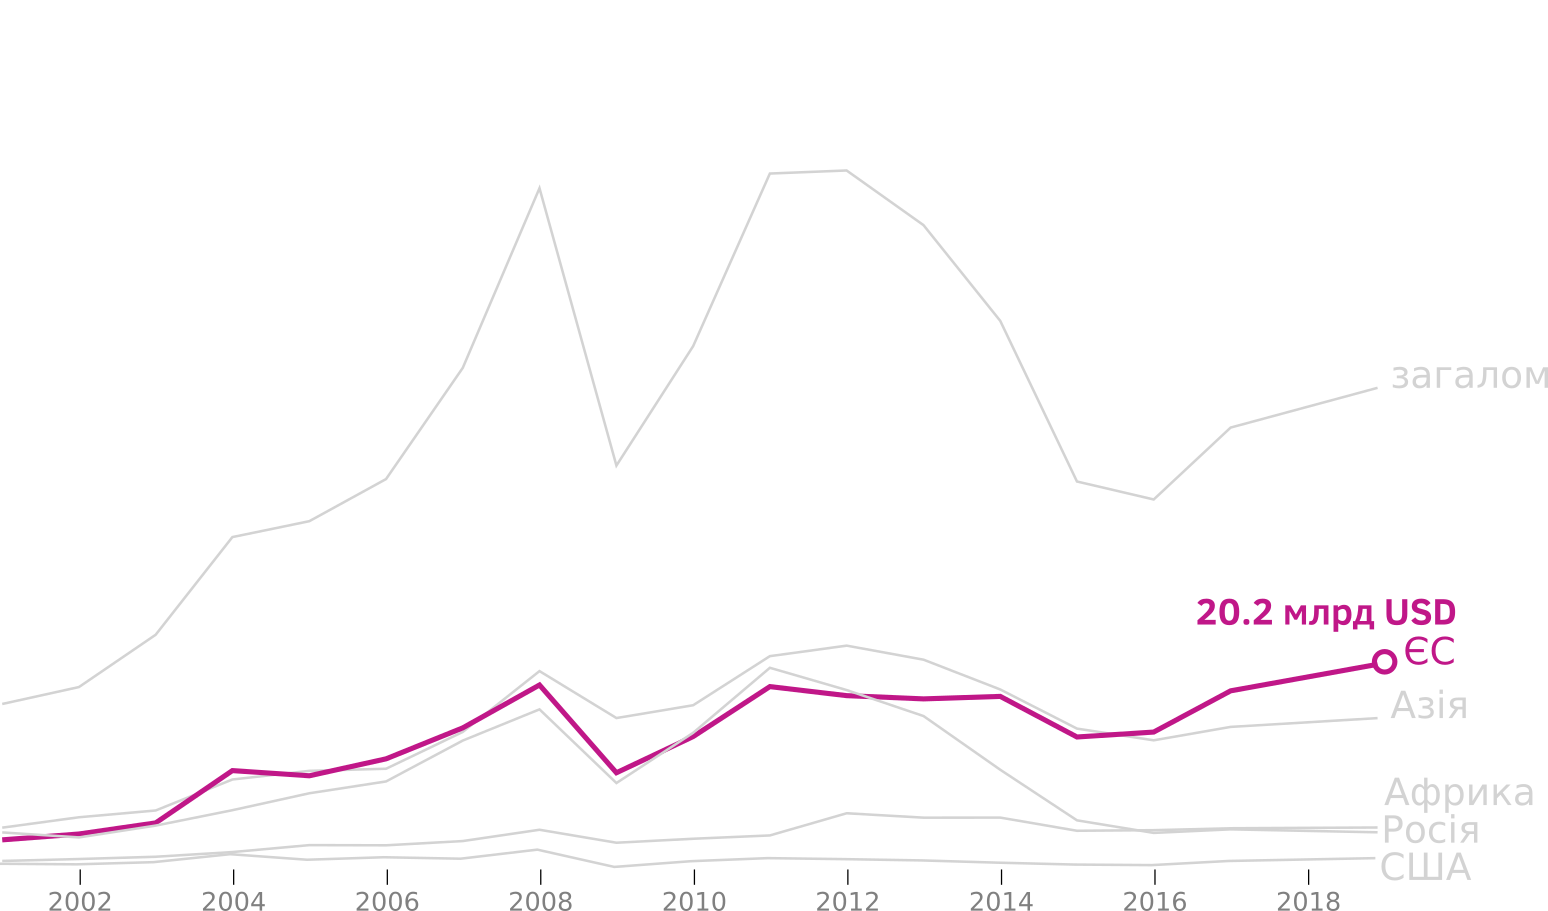
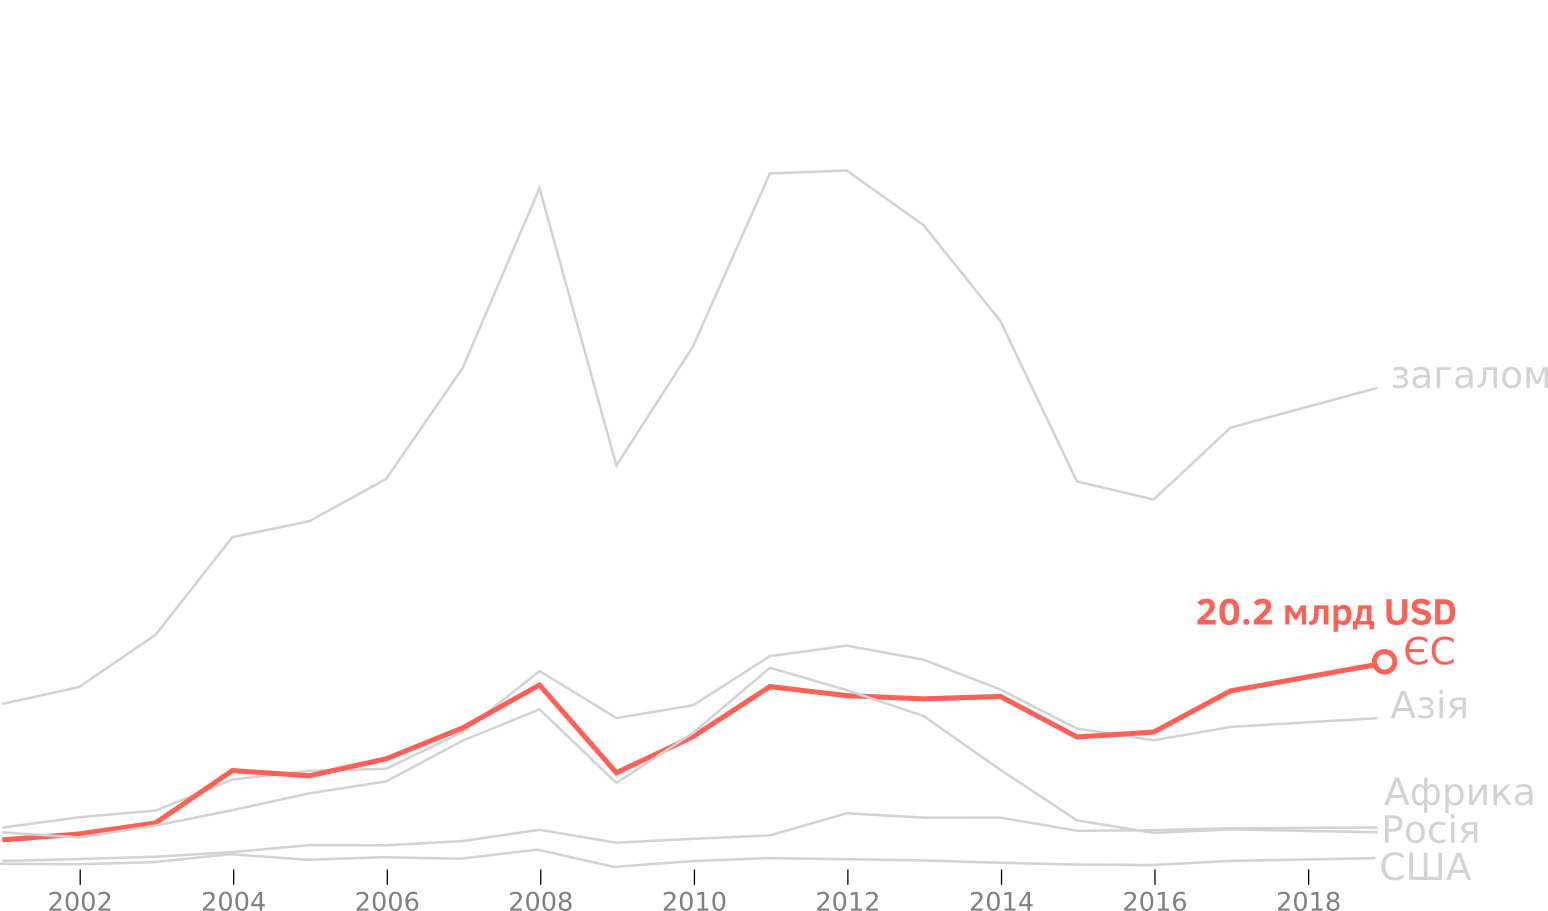
додала заставочну картинку, змінила назву і колір експорту

diff --git a/index.html b/index.html
@@ -3,13 +3,13 @@
 <meta http-equiv="X-UA-Compatible" content="IE=edge">
 <meta name="viewport" content="width=device-width, initial-scale=1.0">
 
-<title>Країна зерна і сталі</title>
+<title>Країна сталі і зерна</title>
 
 <!-- OpenGraph Meta Tags -->
 <meta property="og:site_name" content="ТЕКСТИ.ORG.UA"/>
 <meta property="og:type" content="website"/>
 <meta property="og:title"
-        content="Країна зерна і сталі"/>
+        content="Країна сталі і зерна"/>
 <meta property="og:image" content="http://texty.org.ua/d/2020/trade-map/img/cover.png"/>
 <meta property="og:description"
         content="«Тексти» проаналізували дані ITC по українському експорту та імпорту з 2001 по 2018 роки"/>
@@ -21,7 +21,7 @@
 <meta property="twitter:account_id" content="49572937"/>
 <meta name="twitter:card" content="summary_large_image"/>
 <meta name="twitter:url" content="http://texty.org.ua/d/2020/trade-map/"/>
-<meta name="twitter:title"  content="Країна зерна і сталі"/>
+<meta name="twitter:title"  content="Країна сталі і зерна"/>
 <meta name="twitter:description"  content="«Тексти» проаналізували дані ITC по українському експорту та імпорту з 2001 по 2018 роки"/>
 <meta name="twitter:image:src" content="http://texty.org.ua/d/2020/trade-map/img/cover.png"/>
 <meta name="twitter:image:width" content="1200"/>
@@ -29,7 +29,7 @@
 
 
 <!-- Other Meta Tags -->
-<meta name="title" content="Країна зерна і сталі">
+<meta name="title" content="Країна сталі і зерна">
 <meta name="description" content="«Тексти» проаналізували дані ITC по українському експорту та імпорту з 2001 по 2018 роки">
 
 <!-- Links -->
@@ -56,17 +56,15 @@
 
 
 <header>
-    <div>
-    <h1>Країна зерна і сталі</h1>
-    <h3 class="text">«Тексти» проаналізували дані <a href="https://www.trademap.org/" target="_blank">Міжнародного торговельного центру (International Trade Centre)</a> по українському експорту та імпорту з 2001 по 2018 роки. Ці цифри дають уявлення про ступінь міцності та гнучкості української економіки, її здатність адаптуватися до нових умов та викликів.
-    </h3>
-    <p id="credits" class="text">Текст: <b>Андрій Гарасим</b>, графіка: <b>Євгенія Дроздова</b></p>
-    </div>
+    <img id="cover" src="img/cover_header.png">
+    <h1>Країна сталі і зерна</h1>
 </header>
 
 <article>
 
-    
+    <h3 class="text">«Тексти» проаналізували дані <a href="https://www.trademap.org/" target="_blank">Міжнародного торговельного центру (International Trade Centre)</a> по українському експорту та імпорту з 2001 по 2018 роки. Ці цифри дають уявлення про ступінь міцності та гнучкості української економіки, її здатність адаптуватися до нових умов та викликів.
+    </h3>
+    <p id="credits" class="text">Текст: <b>Андрій Гарасим</b>, графіка: <b>Євгенія Дроздова</b></p>
 
 
 <p class="text">Якщо поглянути на загальні графіки українського експорту та імпорту товарів, можна помітити кілька загальних тенденцій. З 2002 року відбувається зростання обсягів як експорту, так і  імпорту. Але цей тренд не є безперервним: український експорт та імпорт пережили декілька пікових зростань та значних падінь.
@@ -192,7 +190,7 @@
 
 <section class="line-chart-container">
     <div id="sticky-content">
-        <h3 id="selected-country"> Торгівля зі світом, 2001-2018</h3>
+        <h3 id="selected-country">Торгівля зі світом, 2001-2018</h3>
         <select name="select">
             <option value="загалом" selected>Загалом</option>
             <option value="ЄС" >Європейський Союз</option>
@@ -240,7 +238,7 @@
     </div>
 </section>
 
-
+</article>
 <!-- Donate button -->
 <div id="button">
     <h3>TEXTY.ORG.UA незалежне видання без навʼязливої реклами і замовних матеріалів. Щоб працювати і далі нам потрібна ваша підтримка.</h3>
@@ -260,7 +258,7 @@
         <a href="http://texty.org.ua/" target="_blank"><img src="img/logo.svg" alt="texty.org.ua"></a>
     </div>
 </section>
-</article>
+
 
 
 <!--<section id="playground">-->
@@ -304,7 +302,7 @@
 
 
 <script>
-    const exColor = "#c01788";
+    const exColor = "#ff6156";
     const imColor = "rgb(24, 100, 170)";
     const bgColor = '#efeedf';
     var showImport = true;

diff --git a/css/styles.css b/css/styles.css
@@ -103,7 +103,7 @@
         font-size: 14px; } }
   #soc i {
     font-size: 40px;
-    color: #33302e;
+    color: #ff6156;
     margin: 0 0 0 0.5em;
     max-height: 1em; }
     @media screen and (min-device-width: 320px) and (max-device-width: 480px) {
@@ -193,43 +193,50 @@ body {
   background-color: #efeedf; }
 
 header {
-  min-height: 50vh;
-  display: flex;
-  margin-bottom: 100px; }
-  header div {
-    width: 100%;
-    max-width: 1600px;
-    margin: auto;
-    margin: auto;
-    display: block; }
+  display: grid;
+  margin-bottom: 100px;
+  grid-template-rows: auto max-content; }
+  @media (max-width: 800px) {
+    header {
+      display: block; } }
+  header img {
+    grid-column: 1/-1;
+    grid-row: 1/-1;
+    z-index: -1;
+    width: 100%; }
   header a {
     text-decoration: none;
     color: inherit;
     border-bottom: 1px dashed #33302e;
     padding-bottom: 2px; }
   header h1 {
-    width: 40%;
-    margin: auto;
-    font-size: 55px; }
+    grid-column: 1/-1;
+    grid-row: 2/-1;
+    margin: auto auto auto auto;
+    font-size: 70px;
+    color: white; }
+    @media (max-width: 1200px) {
+      header h1 {
+        font-size: 55px; } }
     @media (max-width: 800px) {
       header h1 {
-        margin-top: 50px;
+        color: #33302e;
         text-align: center;
         width: 96%;
         font-size: 40px; } }
-  header h3 {
-    width: 40%;
-    margin: 20px auto;
-    line-height: 2; }
-    @media (max-width: 800px) {
-      header h3 {
-        width: 90%;
-        margin: 20px auto; } }
 
 article {
   width: 100%;
   max-width: 1600px;
   margin: auto; }
+  article h3 {
+    width: 40%;
+    margin: 20px auto;
+    line-height: 2; }
+    @media (max-width: 800px) {
+      article h3 {
+        width: 90%;
+        margin: 20px auto; } }
 
 #credits {
   font-size: 14px;
@@ -402,8 +409,8 @@ h4 {
 
 #show-export, #show-export-cases {
   cursor: pointer;
-  border: 1px solid #c01788;
-  color: #c01788; }
+  border: 1px solid #ff6156;
+  color: #ff6156; }
 
 #redraw {
   cursor: pointer;

diff --git a/scss/styles.scss b/scss/styles.scss
@@ -3,7 +3,7 @@
 @import "header";
 @import "footer";
 
-$exColor: #c01788;
+$exColor: #ff6156;
 $imColor: #1864aa;
 $back-color: #efeedf;
 
@@ -25,20 +25,19 @@ body {
 }
 
 
-
 header {
-  min-height: 50vh;
-  //background-color: #d3d6e0;
-  //color: $back-color;
-  display:flex;  
+  display: grid;
   margin-bottom: 100px;
-
-  div {
-    width: 100%;
-    max-width: 1600px;
-    margin:auto;
-    margin: auto;
+  grid-template-rows: auto max-content;
+  @media(max-width: 800px) {
     display: block;
+  }
+
+  img {
+    grid-column: 1/-1;
+    grid-row: 1/-1;
+    z-index: -1;
+    width: 100%;
   }
 
   a {
@@ -49,16 +48,28 @@ header {
   }
 
   h1 {
-    width: 40%;
-    margin: auto;
-    font-size: 55px;
+    grid-column: 1/-1;
+    grid-row: 2/-1;
+    margin: auto auto auto auto;
+    font-size: 70px;
+    color: white;
+    @media(max-width: 1200px) {
+      font-size: 55px;
+    }
     @media(max-width: 800px) {
-      margin-top: 50px;
+      color: #33302e;
       text-align: center;
       width: 96%;
       font-size: 40px;
     }
   }
+}
+
+
+article {
+  width: 100%;
+  max-width: 1600px;
+  margin:auto;
 
   h3 {
     width: 40%;
@@ -72,11 +83,6 @@ header {
 }
 
 
-article {
-  width: 100%;
-  max-width: 1600px;
-  margin:auto;
-}
 
 #credits {
   font-size: 14px;

diff --git a/scss/header.scss b/scss/header.scss
@@ -62,7 +62,7 @@
 
   i {
     font-size:40px;
-    color: #33302e;
+    color: #ff6156;
     margin: 0 0 0 0.5em;
     max-height: 1em;
     //transition: all 0.5s;
